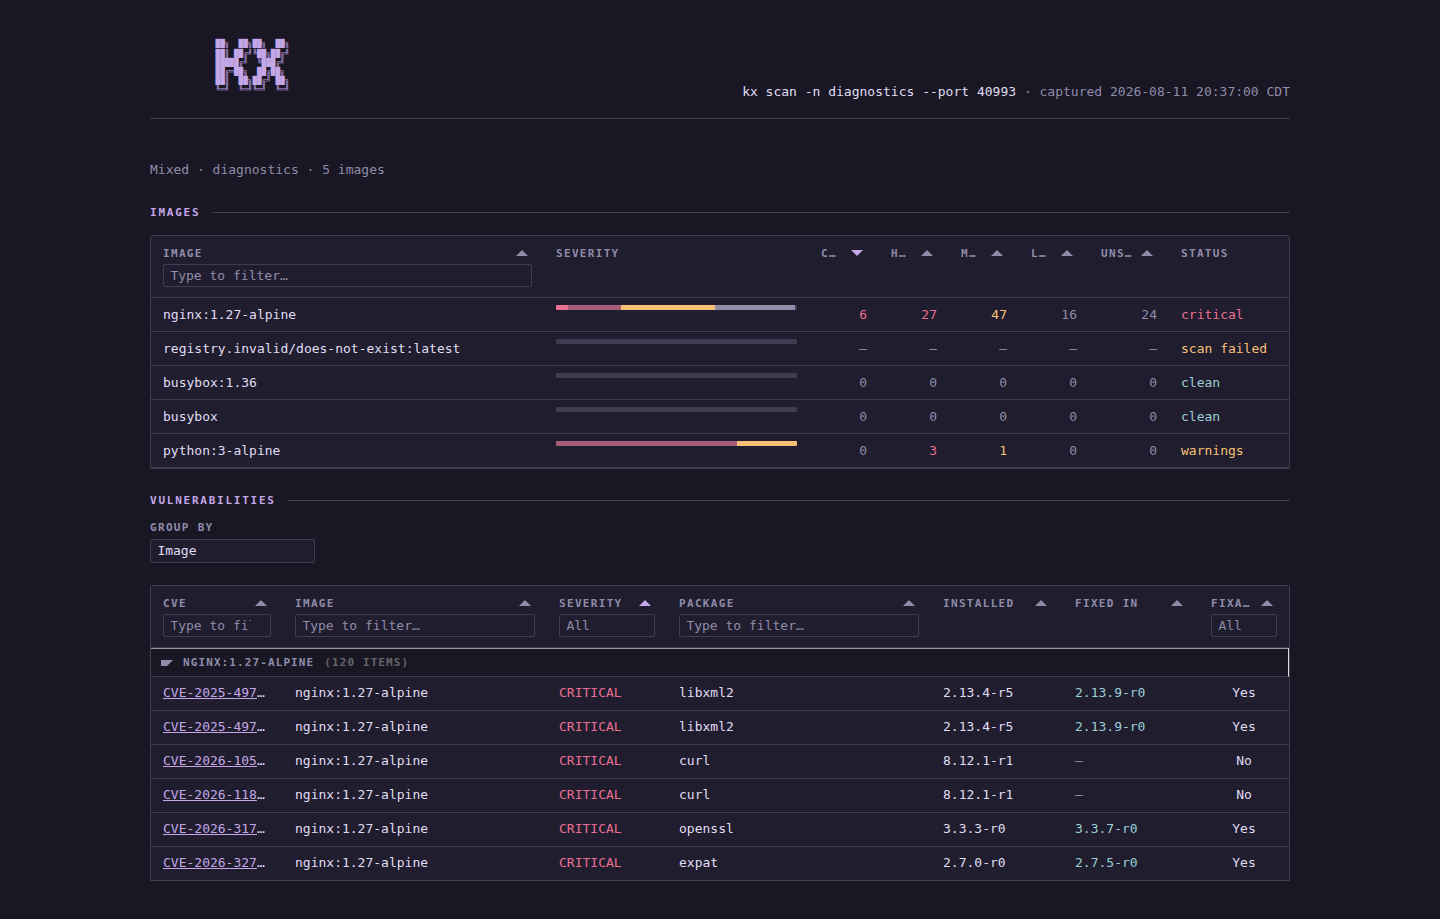
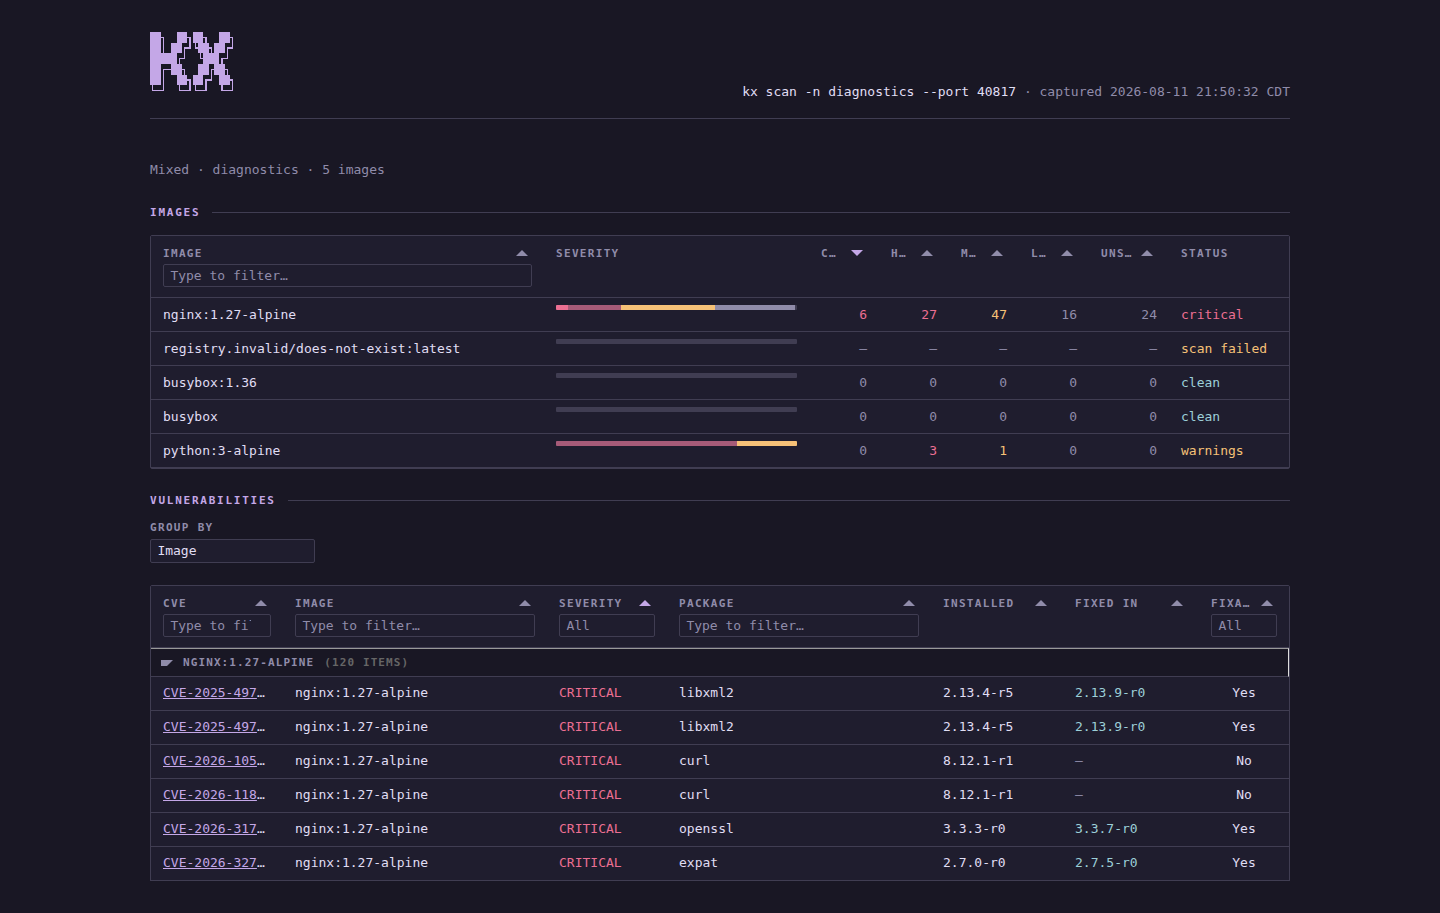
fix(site): actually stage the vector marks and screenshots
The previous commit renamed tools/gen-site-mark to tools/gen-marks but
its pathspec-scoped git add silently failed, so only the bare rename
landed — none of the content it was meant to carry.

diff --git a/tools/gen-marks/main.go b/tools/gen-marks/main.go
@@ -1,15 +1,16 @@
-// Command gen-site-mark draws the kx mark as vector shapes.
+// Command gen-marks draws the kx mark as vector shapes.
 //
-//	go run ./tools/gen-site-mark
+//	go run ./tools/gen-marks
 //
 // The mark is ASCII art — the same six lines kx prints at the top of --help —
-// and every SVG of it so far has been that art as <text> in a monospace font.
-// That only lines up when the reader has the font. Chromium without Courier New
-// renders it as a jumble of offset blocks, which is what the site was showing,
-// and what assets/banner.svg has always done on a machine without those fonts.
+// and every SVG of it used to be that art as <text> in a monospace font. That
+// only lines up when the reader has the font. Chromium without Courier New,
+// and GitHub's own renderer, both showed it as a jumble of offset blocks.
 //
-// Emitting rectangles removes the font from the picture: the same shapes render
-// on every machine, at every size, and stay crisp when scaled.
+// Emitting rectangles removes the font from the picture: the same shapes
+// render on every machine, at every size, and stay crisp when scaled. Every
+// output below shares one grid of rects; only the wrapping markup differs, so
+// the marks can never drift out of shape with each other.
 package main
 
 import (
@@ -18,12 +19,10 @@ import (
 	"strings"
 )
 
-const outputPath = "site/assets/kx-mark.svg"
-
 // art is the mark, as kx draws it. Kept here rather than imported because
-// internal/render holds it unexported and as terminal output; this is the same
-// six lines, and a test would be the wrong tool for six string literals that
-// have not changed since the logo was designed.
+// internal/render holds it unexported and as terminal output; this is the
+// same six lines, and a test would be the wrong tool for six string literals
+// that have not changed since the logo was designed.
 var art = []string{
 	`██╗  ██╗██╗  ██╗`,
 	`██║ ██╔╝╚██╗██╔╝`,
@@ -45,26 +44,86 @@ const (
 	stroke = 5.0
 )
 
+// The README banner is embedded via <img width="800">, wide of the mark's own
+// 4:3 shape, so its canvas keeps the original text version's proportions —
+// the mark centred with letterbox padding — rather than cropping to it.
+const (
+	bannerWidth  = 800.0
+	bannerHeight = 250.0
+)
+
+// outputs is every place the mark is drawn as a vector. Each gets the same
+// grid of rects, wrapped in the markup its own page expects.
+var outputs = []struct {
+	path string
+	// open renders everything before the rects, close everything after, for a
+	// mark w wide and h tall.
+	open, close func(w, h float64) string
+}{
+	{
+		// The site colours the mark from the active palette by inheriting
+		// fill from the SVG's own fill="currentColor", set through CSS.
+		path: "site/assets/kx-mark.svg",
+		open: func(w, h float64) string {
+			return fmt.Sprintf(
+				"<svg xmlns=\"http://www.w3.org/2000/svg\" viewBox=\"0 0 %g %g\"\n"+
+					"     fill=\"currentColor\" shape-rendering=\"crispEdges\"\n"+
+					"     role=\"img\" aria-label=\"kx\">\n", w, h)
+		},
+		close: func(w, h float64) string { return "</svg>\n" },
+	},
+	{
+		// The --html report masthead colours the mark via .wordmark's own
+		// fill: var(--accent) in internal/web/style.css, so the rects here
+		// carry no fill of their own and just inherit it.
+		path: "internal/web/wordmark.svg",
+		open: func(w, h float64) string {
+			return fmt.Sprintf(
+				"<svg class=\"wordmark\" xmlns=\"http://www.w3.org/2000/svg\" viewBox=\"0 0 %g %g\"\n"+
+					"     shape-rendering=\"crispEdges\" role=\"img\" aria-label=\"kx\">\n", w, h)
+		},
+		close: func(w, h float64) string { return "</svg>\n" },
+	},
+	{
+		// GitHub renders READMEs standalone, with no page palette to inherit
+		// from, so this one carries its own fixed fill rather than
+		// currentColor. The mark is centred in a canvas the size the <text>
+		// version used, so the banner keeps its wide, padded proportions
+		// instead of shrinking to the mark's own tighter 4:3 shape.
+		path: "assets/banner.svg",
+		open: func(w, h float64) string {
+			return fmt.Sprintf(
+				"<svg xmlns=\"http://www.w3.org/2000/svg\" width=\"%g\" height=\"%g\" viewBox=\"0 0 %g %g\"\n"+
+					"     shape-rendering=\"crispEdges\" role=\"img\" aria-label=\"kx — kubectl, indexed.\">\n"+
+					"  <g fill=\"#3fb950\" transform=\"translate(%g, %g)\">\n",
+				bannerWidth, bannerHeight, bannerWidth, bannerHeight,
+				(bannerWidth-w)/2, (bannerHeight-h)/2)
+		},
+		close: func(w, h float64) string { return "  </g>\n</svg>\n" },
+	},
+}
+
 func main() {
 	shapes, columns := render()
+	w, h := float64(columns)*cellWidth, float64(len(art))*cellHeight
 
-	var out strings.Builder
-	fmt.Fprintf(&out,
-		"<!-- Generated by tools/gen-site-mark. Do not edit.\n"+
-			"     The kx mark as rectangles rather than text: drawn as <text> it only\n"+
-			"     lines up where the reader has a monospace font carrying the box-drawing\n"+
-			"     glyphs, and falls apart into offset blocks where they don't.\n"+
-			"     fill=currentColor so the page can colour it from the active palette. -->\n"+
-			"<svg xmlns=\"http://www.w3.org/2000/svg\" viewBox=\"0 0 %g %g\"\n"+
-			"     fill=\"currentColor\" shape-rendering=\"crispEdges\"\n"+
-			"     role=\"img\" aria-label=\"kx\">\n%s</svg>\n",
-		float64(columns)*cellWidth, float64(len(art))*cellHeight, shapes)
+	for _, output := range outputs {
+		var out strings.Builder
+		out.WriteString(
+			"<!-- Generated by tools/gen-marks. Do not edit.\n" +
+				"     The kx mark as rectangles rather than text: drawn as <text> it only\n" +
+				"     lines up where the reader has a monospace font carrying the box-drawing\n" +
+				"     glyphs, and falls apart into offset blocks where they don't. -->\n")
+		out.WriteString(output.open(w, h))
+		out.WriteString(shapes)
+		out.WriteString(output.close(w, h))
 
-	if err := os.WriteFile(outputPath, []byte(out.String()), 0o644); err != nil {
-		fmt.Fprintln(os.Stderr, "gen-site-mark:", err)
-		os.Exit(2)
+		if err := os.WriteFile(output.path, []byte(out.String()), 0o644); err != nil {
+			fmt.Fprintln(os.Stderr, "gen-marks:", err)
+			os.Exit(2)
+		}
+		fmt.Println("updated", output.path)
 	}
-	fmt.Println("updated", outputPath)
 }
 
 // render walks the grid and emits a rect for every filled region.
@@ -125,7 +184,7 @@ func rects(glyph rune, x, y float64) []rect {
 	case ' ':
 		return nil
 	default:
-		fmt.Fprintf(os.Stderr, "gen-site-mark: no shape for %q\n", glyph)
+		fmt.Fprintf(os.Stderr, "gen-marks: no shape for %q\n", glyph)
 		os.Exit(2)
 		return nil
 	}

diff --git a/internal/web/render.go b/internal/web/render.go
@@ -21,9 +21,10 @@ var stylesheet string
 // wordmarkSVG is the same "KX" glyphs as kxArt (internal/render/help.go) and
 // assets/banner.svg, kept as its own small copy rather than shared: the
 // README's asset is rendered standalone by GitHub with a fixed fill and
-// can't reach a Go embed directive outside this package's directory, and
-// this copy carries no fill at all so it inherits the page's --accent
-// through .wordmark in style.css instead.
+// can't reach a Go embed directive outside this package's directory. It is
+// generated by tools/gen-marks as rects rather than <text> — see that
+// command's doc comment — and carries no fill of its own, so it inherits the
+// page's --accent through .wordmark in style.css instead.
 //
 //go:embed wordmark.svg
 var wordmarkSVG string
